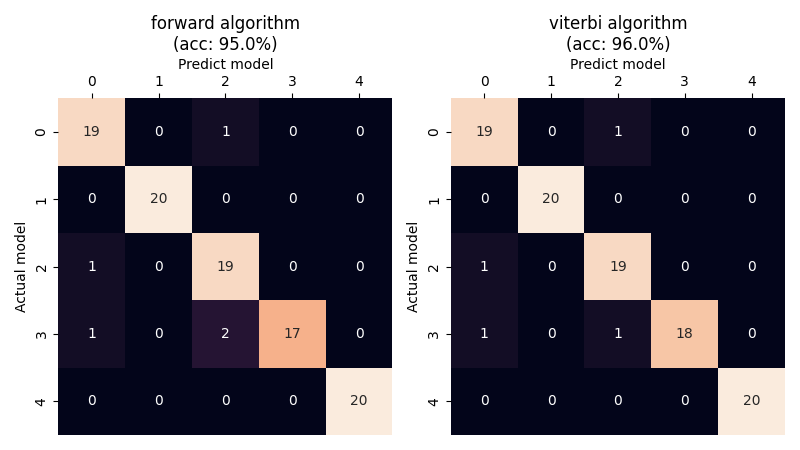
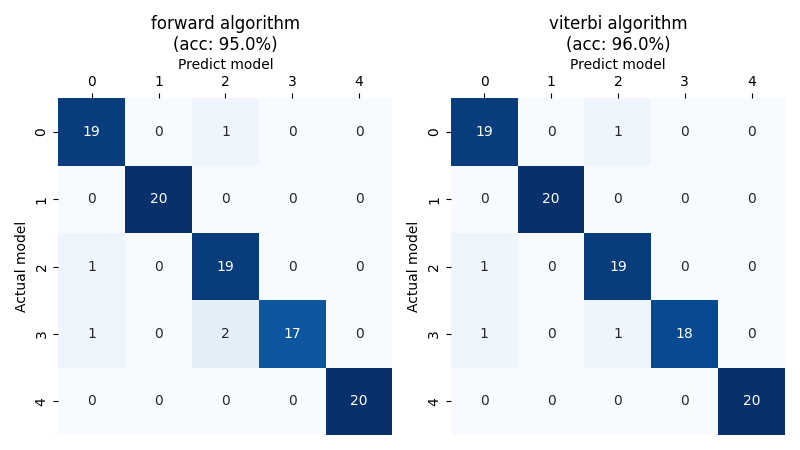
青色にしたよ～

diff --git a/ex6/s_teruya/kadai6.py b/ex6/s_teruya/kadai6.py
@@ -161,7 +161,7 @@ class HMM:
             ax = fig.add_subplot(1, len(pred_dict), n)  # 左から順に
             # 混同行列表示
             cm = confusion_matrix(self.answer_models, pred)
-            seaborn.heatmap(cm, ax=ax, annot=True, cbar=False)
+            seaborn.heatmap(cm, ax=ax, annot=True, cbar=False, cmap="Blues")
             # 行列周りの表示
             ax.set_xlabel("Predict model")
             ax.set_ylabel("Actual model")
